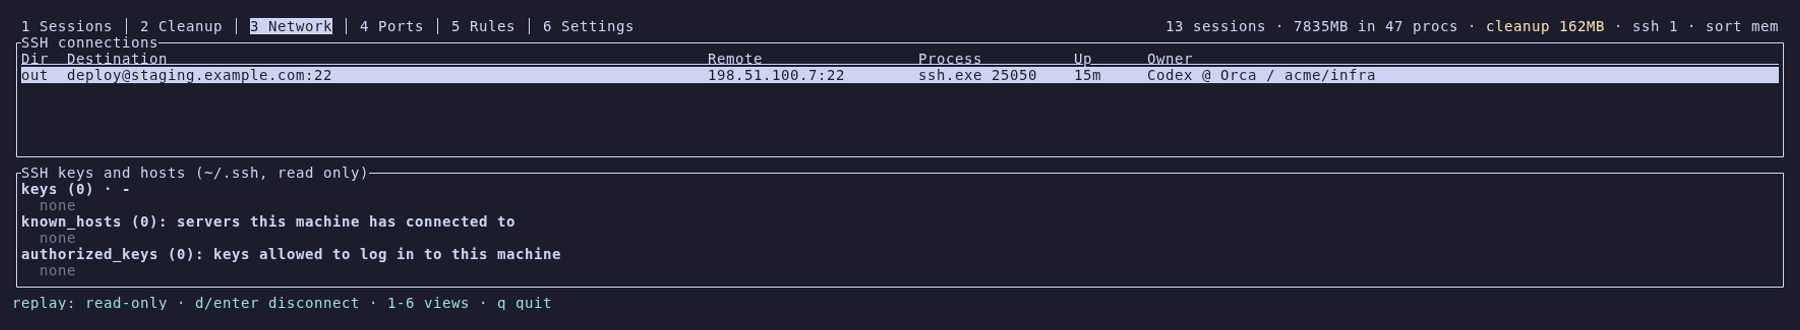
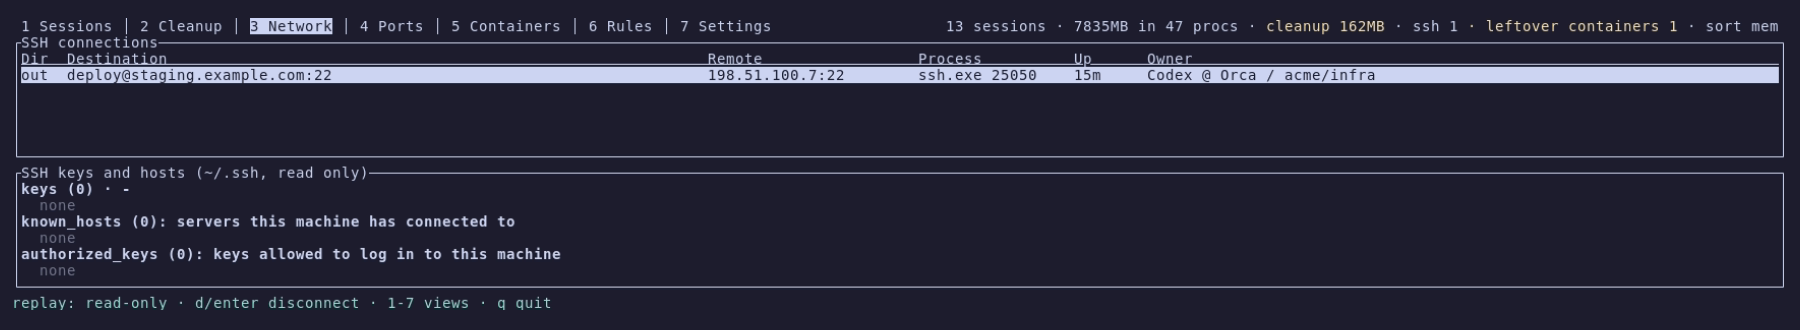
Show the Containers view in the README screens and demo (#30)
Snapshots can carry containers: `--dump-json` saves them with their
judgment, and a replay shows them (read-only). The made-up sample has a
project whose checkout is gone, one a live session owns, one with no live
session and one started without compose.

The tapes add a Containers screenshot and step, use the new view numbers,
and wait longer for startup. All screens and the demo are re-recorded, and
the READMEs show the Containers screenshot.

Changed region(s): [[0.5289, 0.0606, 0.9333, 0.1212], [0.2489, 0.0606, 0.4356, 0.1212], [0.2178, 0.9091, 0.2489, 0.9394]]

diff --git a/crates/app/src/tui.rs b/crates/app/src/tui.rs
@@ -311,7 +311,11 @@ impl App {
         self.replay
     }
 
-    pub fn apply(&mut self, snapshot: Snapshot) {
+    pub fn apply(&mut self, mut snapshot: Snapshot) {
+        // A replay shows the containers saved with it; the dashboard reads them live instead.
+        if let Some(projects) = snapshot.containers.take().filter(|_| self.replay) {
+            self.apply_docker(DockerMsg::Read(Docker::Ready(projects)));
+        }
         let mut model = Model::build(snapshot, &self.catalog);
         self.history.update(&model);
         self.origins.update(&model, &self.catalog);
@@ -1337,8 +1341,8 @@ impl App {
                     docker_msg = match &self.docker {
                         _ if self.replay => t(
                             lang,
-                            "containers are not read in a replay",
-                            "재생 중에는 컨테이너를 읽지 않음",
+                            "this snapshot was saved without containers",
+                            "이 스냅숏에는 컨테이너가 저장되지 않음",
                         )
                         .to_string(),
                         Docker::Pending => t(lang, "reading docker…", "docker 읽는 중…").into(),
@@ -3598,6 +3602,36 @@ mod tests {
         key(&mut app, KeyCode::Char('x'));
         let refusals = &app.confirm.as_ref().unwrap().refusals;
         assert_eq!(refusals, &["gone-db-1 is protected by rule 'postgres'".to_string()]);
+    }
+
+    #[test]
+    fn replay_shows_the_containers_saved_with_it() {
+        let snapshot: Snapshot = serde_json::from_str(include_str!("../../core/tests/fixtures/sample.json")).unwrap();
+        let mut app = App::new(Rules::default(), Vec::new()).replaying();
+        app.apply(snapshot);
+        assert_eq!(app.docker_marked, HashSet::from(["search-v1".to_string()]));
+        key(&mut app, KeyCode::Char('5'));
+        let s = screen(&mut app);
+        assert!(s.contains("checkout gone") && s.contains("9200→9200/tcp"), "{s}");
+        assert!(s.contains("Claude Code @ Orca / acme/web-app"), "{s}");
+        // Saved containers are another machine's: confirming changes nothing here.
+        key(&mut app, KeyCode::Char('x'));
+        assert!(app.confirm.as_ref().unwrap().containers.is_some());
+        key(&mut app, KeyCode::Char('y'));
+        assert!(app.status.contains("read-only"), "{}", app.status);
+
+        // The dashboard reads containers live, never from a snapshot.
+        let mut app = app_with(Rules::default());
+        assert_eq!(app.docker, Docker::Pending);
+        key(&mut app, KeyCode::Char('5'));
+        assert!(screen(&mut app).contains("reading docker"));
+    }
+
+    fn app_with(rules: Rules) -> App {
+        let snapshot: Snapshot = serde_json::from_str(include_str!("../../core/tests/fixtures/sample.json")).unwrap();
+        let mut app = App::new(rules, Vec::new());
+        app.apply(snapshot);
+        app
     }
 
     #[test]

diff --git a/crates/core/src/containers.rs b/crates/core/src/containers.rs
@@ -6,6 +6,8 @@
 use std::path::Path;
 use std::process::{Command, Stdio};
 
+use serde::{Deserialize, Serialize};
+
 use crate::catalog::normalize;
 use crate::model::Model;
 
@@ -14,7 +16,7 @@ const PS_FORMAT: &str = "{{.ID}}\t{{.Names}}\t{{.Image}}\t{{.State}}\t{{.Status}
     {{.Label \"com.docker.compose.project\"}}\t{{.Label \"com.docker.compose.service\"}}\t\
     {{.Label \"com.docker.compose.project.working_dir\"}}";
 
-#[derive(Debug, Clone, PartialEq, Eq)]
+#[derive(Debug, Clone, PartialEq, Eq, Serialize, Deserialize)]
 pub struct Container {
     pub id: String,
     pub name: String,
@@ -37,7 +39,7 @@ impl Container {
 }
 
 /// Where a project's working directory stands on this machine.
-#[derive(Debug, Clone, PartialEq, Eq)]
+#[derive(Debug, Clone, PartialEq, Eq, Serialize, Deserialize)]
 pub enum Place {
     /// It exists; `checkout` is the git checkout holding it, or the directory itself.
     Here { checkout: String },
@@ -47,7 +49,7 @@ pub enum Place {
     Unknown,
 }
 
-#[derive(Debug, Clone, PartialEq, Eq)]
+#[derive(Debug, Clone, PartialEq, Eq, Serialize, Deserialize)]
 pub struct Project {
     /// The compose project name, or the container name for a container started on its own.
     pub name: String,

diff --git a/crates/app/src/main.rs b/crates/app/src/main.rs
@@ -13,7 +13,7 @@ use agentlens_core::model::Model;
 use agentlens_core::origin::Origins;
 use agentlens_core::rules::Rules;
 use agentlens_core::stdio::StdioProbe;
-use agentlens_core::{Collector, Snapshot, hooks, install, locks, net};
+use agentlens_core::{Collector, Snapshot, containers, hooks, install, locks, net};
 
 const USAGE: &str = "usage: agentlens [--report [snapshot.json] | --dump-json | --replay snapshot.json | locks <path>]";
 
@@ -41,7 +41,11 @@ fn main() -> anyhow::Result<()> {
             tui::run_replay(rules, serde_json::from_str(&std::fs::read_to_string(path)?)?)
         }
         Some("--dump-json") => {
-            let snapshot = live_snapshot(&catalog)?;
+            let mut snapshot = live_snapshot(&catalog)?;
+            // Saved with their judgment, so a replay elsewhere shows them as they were here.
+            if let containers::Docker::Ready(projects) = containers::read(containers::engine_is_local()) {
+                snapshot.containers = Some(projects);
+            }
             serde_json::to_writer_pretty(std::io::stdout().lock(), &snapshot)?;
             Ok(())
         }

diff --git a/crates/core/src/snapshot.rs b/crates/core/src/snapshot.rs
@@ -25,6 +25,10 @@ pub struct Snapshot {
     /// Logical CPUs of the machine it was taken on. Absent from older snapshots.
     #[serde(default)]
     pub cores: u32,
+    /// Docker containers, judged where the snapshot was taken. Only `--dump-json` reads them,
+    /// so a replay can show them; the dashboard reads them live on its own.
+    #[serde(default, skip_serializing_if = "Option::is_none")]
+    pub containers: Option<Vec<crate::containers::Project>>,
 }
 
 #[derive(Debug, Clone, Serialize, Deserialize)]
@@ -193,6 +197,7 @@ impl Collector {
             tcp: self.tcp.clone(),
             listening: self.listening.clone(),
             cores: self.cores,
+            containers: None,
         }
     }
 

diff --git a/crates/core/tests/unix_model.rs b/crates/core/tests/unix_model.rs
@@ -76,6 +76,7 @@ fn mac() -> Model {
             tcp: Vec::new(),
             listening: Vec::new(),
             cores: 1,
+            containers: None,
         },
         &Catalog::builtin(),
     )
@@ -145,6 +146,7 @@ fn build(processes: Vec<ProcInfo>) -> Model {
             tcp: Vec::new(),
             listening: Vec::new(),
             cores: 1,
+            containers: None,
         },
         &Catalog::builtin(),
     )

diff --git a/crates/core/src/stdio.rs b/crates/core/src/stdio.rs
@@ -129,6 +129,7 @@ mod tests {
                     tcp: Vec::new(),
                     listening: Vec::new(),
                     cores: 1,
+                    containers: None,
                 },
                 &Catalog::builtin(),
             )

diff --git a/crates/core/tests/origin.rs b/crates/core/tests/origin.rs
@@ -36,6 +36,7 @@ fn model(at: u64, processes: Vec<ProcInfo>, tcp: Vec<TcpConn>) -> Model {
             tcp,
             listening: Vec::new(),
             cores: 16,
+            containers: None,
         },
         &Catalog::builtin(),
     )

diff --git a/crates/core/src/net.rs b/crates/core/src/net.rs
@@ -437,6 +437,7 @@ mod tests {
                 tcp: vec![conn(10), conn(11)],
                 listening: Vec::new(),
                 cores: 1,
+                containers: None,
             },
             &catalog,
         );

diff --git a/crates/core/tests/state.rs b/crates/core/tests/state.rs
@@ -28,6 +28,7 @@ fn model(at: u64, cpu: f32) -> Model {
             tcp: Vec::new(),
             listening: Vec::new(),
             cores: 1,
+            containers: None,
         },
         &Catalog::builtin(),
     )

diff --git a/crates/core/src/locks.rs b/crates/core/src/locks.rs
@@ -166,6 +166,7 @@ mod tests {
             tcp: Vec::new(),
             listening: Vec::new(),
             cores: 1,
+            containers: None,
         };
         Model::build(snapshot, &Catalog::builtin())
     }
